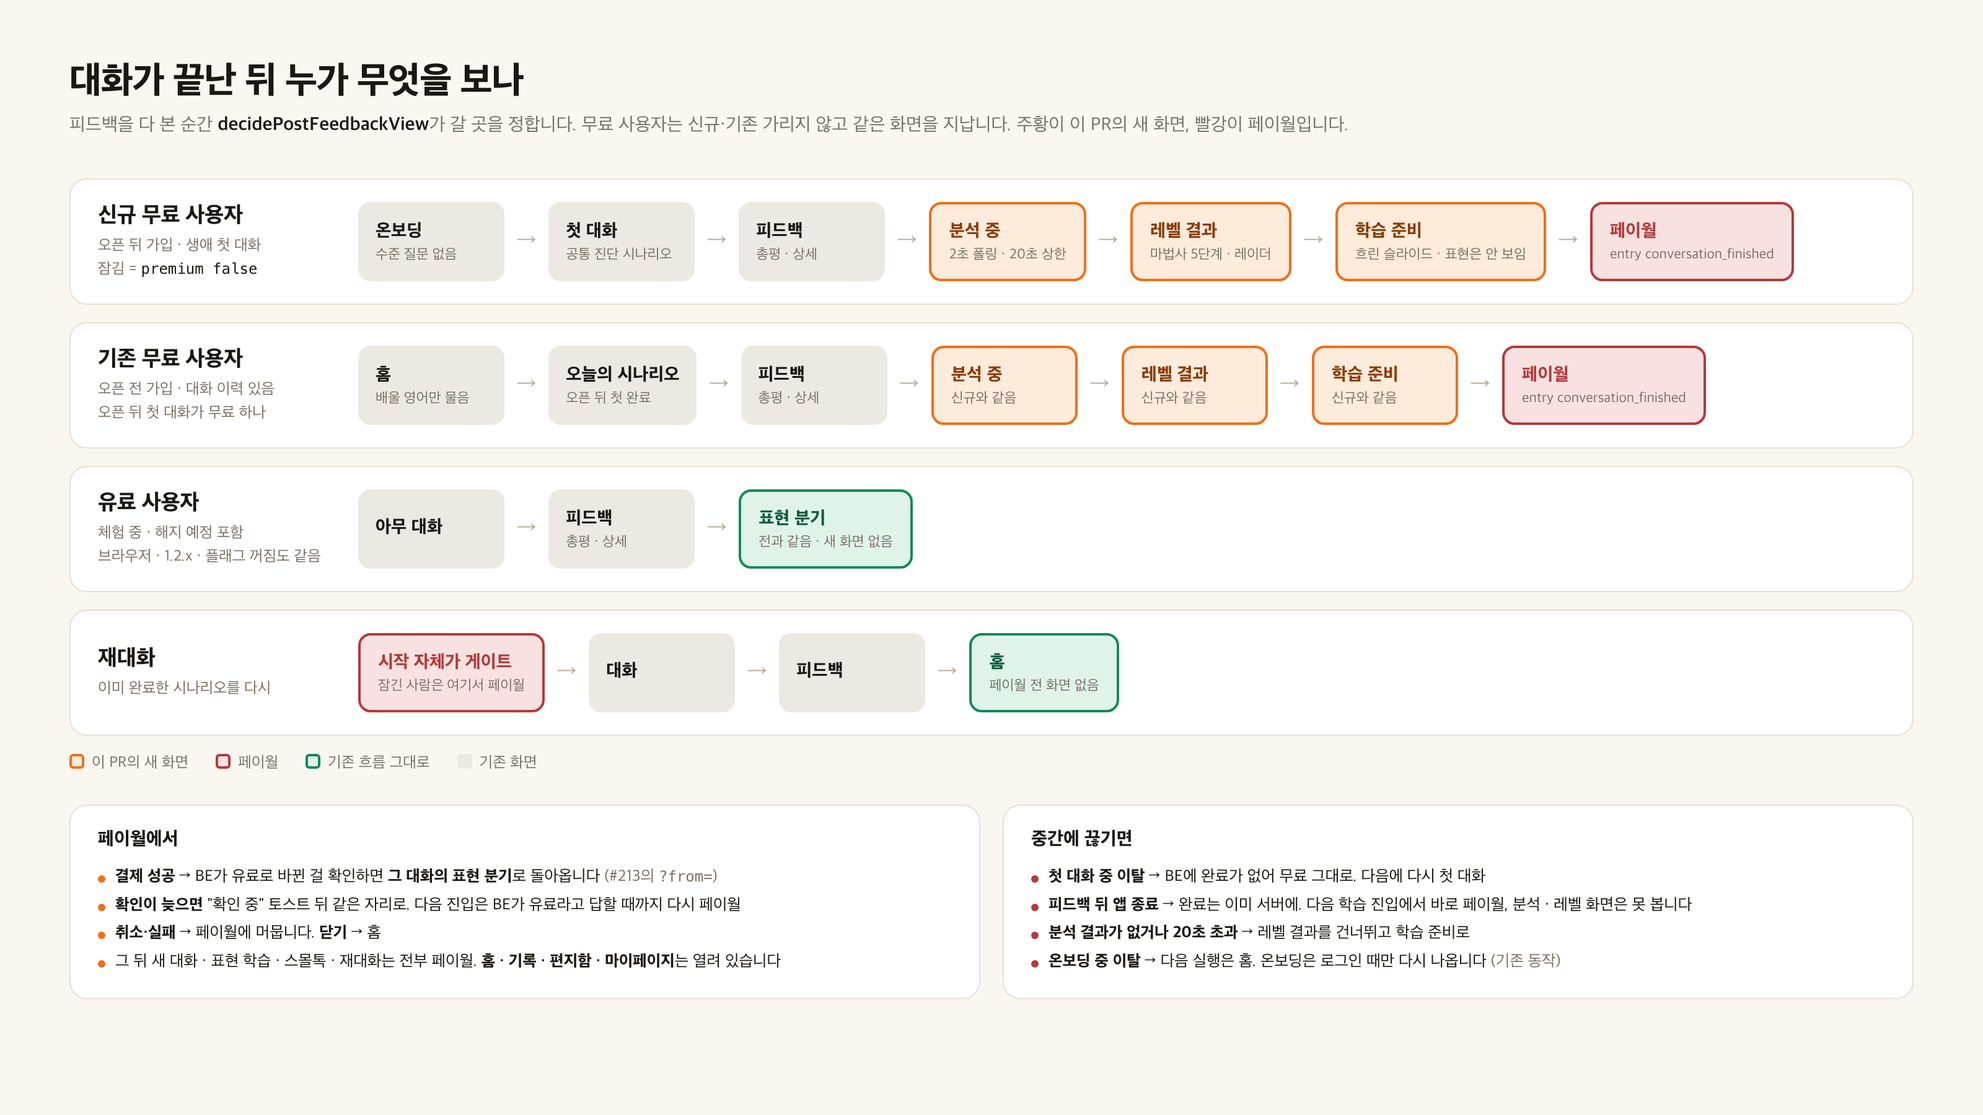
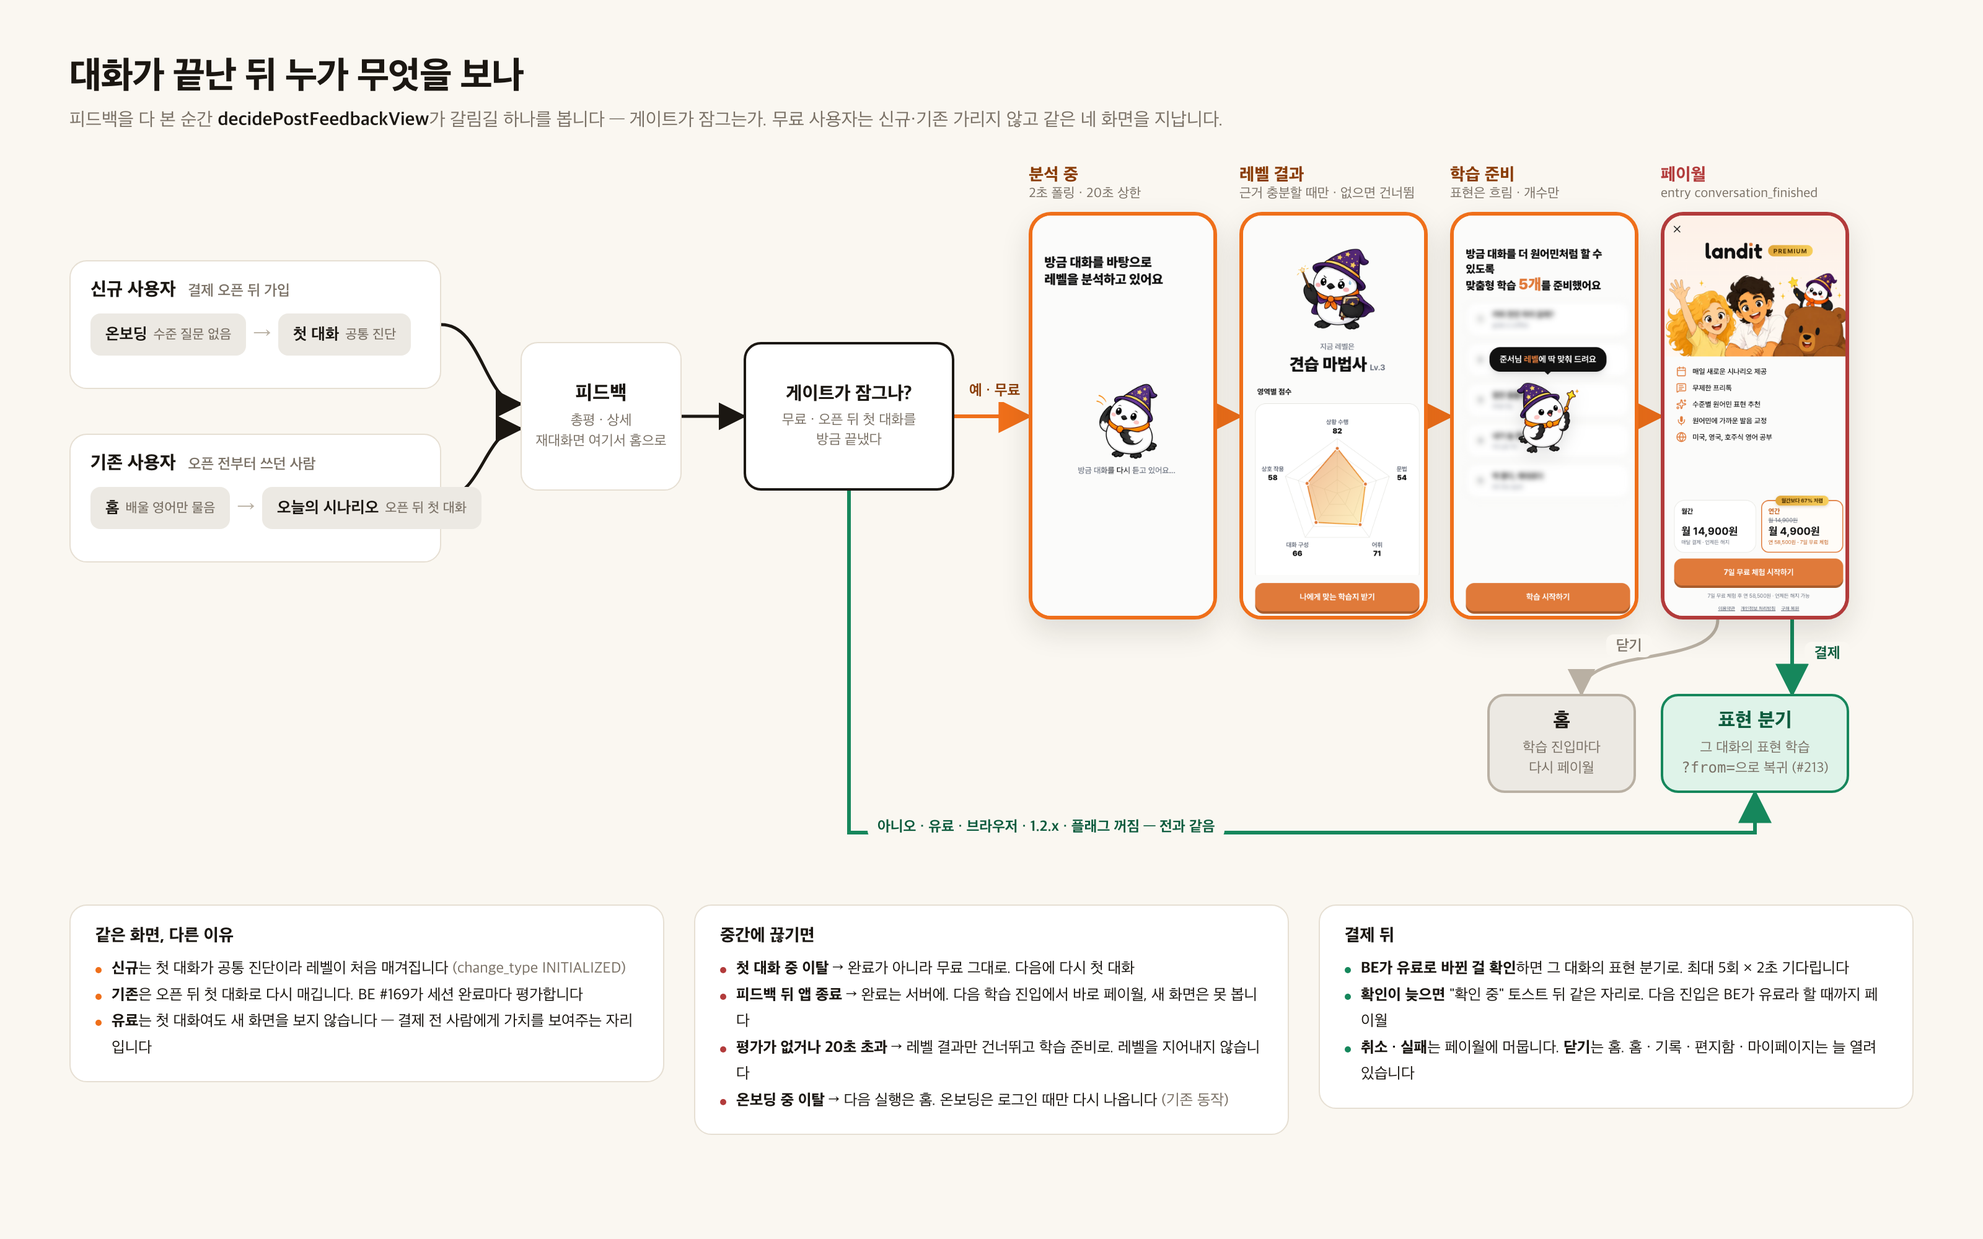
lan448: 흐름도 v2(폰 캡처)와 화면 상태 13장

diff --git a/lan448/post-conversation-flow.html b/lan448/post-conversation-flow.html
@@ -13,136 +13,164 @@
   * { box-sizing: border-box; }
   html, body { margin: 0; background: var(--bg); }
   body { font-family: -apple-system, "Apple SD Gothic Neo", "Pretendard", "Noto Sans KR", system-ui, sans-serif; color: var(--ink); -webkit-font-smoothing: antialiased; }
-  .canvas { width: 1600px; height: 900px; padding: 48px 56px; position: relative; }
+  .canvas { position: relative; width: 1600px; height: 1000px; overflow: hidden; }
+  .abs { position: absolute; }
+  code { font-family: ui-monospace, "SF Mono", Menlo, monospace; font-size: 12px; }
   h1 { margin: 0; font-size: 30px; font-weight: 800; letter-spacing: -0.02em; }
   .sub { margin-top: 8px; font-size: 15px; color: var(--muted); }
   .sub b { color: var(--ink); font-weight: 700; }
-  code { font-family: ui-monospace, "SF Mono", Menlo, monospace; font-size: 12px; }
 
-  .lanes { margin-top: 34px; display: flex; flex-direction: column; gap: 14px; }
-  .lane { display: grid; grid-template-columns: 210px 1fr; align-items: center; border-radius: 14px; padding: 18px 22px; background: #fff; border: 1px solid var(--rule); }
-  .who .name { font-size: 18px; font-weight: 800; letter-spacing: -0.01em; }
-  .who .cond { margin-top: 4px; font-size: 12.5px; line-height: 1.5; color: var(--muted); }
-  .who .cond code { color: var(--ink); }
+  /* 입구 카드 */
+  .entry { width: 300px; height: 104px; padding: 14px 16px; border-radius: 14px; background: #fff; border: 1px solid var(--rule); }
+  .entry .who { font-size: 15px; font-weight: 800; }
+  .entry .who span { font-weight: 600; color: var(--muted); font-size: 12px; margin-left: 6px; }
+  .entry .steps { margin-top: 10px; display: flex; align-items: center; gap: 6px; }
+  .entry .st { height: 34px; padding: 0 12px; border-radius: 8px; background: var(--gray-soft); display: flex; align-items: center; font-size: 13px; font-weight: 700; white-space: nowrap; }
+  .entry .st small { font-weight: 500; color: var(--muted); margin-left: 5px; font-size: 11px; }
+  .entry .ar { color: var(--faint); font-weight: 700; }
 
-  .flow { display: flex; align-items: center; gap: 8px; flex-wrap: nowrap; }
-  .chip { display: flex; flex-direction: column; justify-content: center; min-width: 118px; height: 64px; padding: 0 14px; border-radius: 10px; background: var(--gray-soft); }
-  .chip .t { font-size: 14.5px; font-weight: 800; white-space: nowrap; }
-  .chip .d { margin-top: 3px; font-size: 11.5px; color: var(--muted); white-space: nowrap; }
-  .chip.new { background: var(--accent-soft); border: 2px solid var(--accent); }
-  .chip.new .t { color: var(--accent-ink); }
-  .chip.pay { background: var(--lock-soft); border: 2px solid var(--lock); }
-  .chip.pay .t { color: var(--lock); }
-  .chip.ok { background: var(--truth-soft); border: 2px solid var(--truth); }
-  .chip.ok .t { color: var(--truth-ink); }
-  .arrow { color: var(--faint); font-size: 18px; font-weight: 700; padding: 0 2px; }
-  .arrow.lbl { position: relative; }
-  .arrow.lbl span { position: absolute; left: 50%; top: -22px; transform: translateX(-50%); font-size: 11px; color: var(--muted); white-space: nowrap; }
+  /* 노드 */
+  .node { display: flex; flex-direction: column; align-items: center; justify-content: center; text-align: center; border-radius: 14px; background: #fff; border: 1px solid var(--rule); }
+  .node .t { font-size: 16px; font-weight: 800; }
+  .node .d { margin-top: 4px; font-size: 11.5px; color: var(--muted); line-height: 1.4; }
+  .node.q { background: #fff; border: 2px solid var(--ink); }
+  .node.q .t { font-size: 15px; }
+  .node.ok { background: var(--truth-soft); border: 2px solid var(--truth); } .node.ok .t { color: var(--truth-ink); }
+  .node.home { background: var(--gray-soft); border: 2px solid var(--faint); }
 
-  .legend { margin-top: 14px; display: flex; gap: 22px; font-size: 12.5px; color: var(--muted); }
-  .legend i { display: inline-block; width: 12px; height: 12px; border-radius: 3px; vertical-align: -1px; margin-right: 6px; }
+  /* 폰 */
+  .phone { width: 152px; }
+  .phone .cap { height: 40px; display: flex; flex-direction: column; justify-content: flex-end; padding-bottom: 8px; }
+  .phone .cap .t { font-size: 14px; font-weight: 800; color: var(--accent-ink); white-space: nowrap; }
+  .phone .cap .d { font-size: 11px; color: var(--muted); white-space: nowrap; }
+  .phone .scr { width: 152px; height: 329px; border-radius: 18px; overflow: hidden; border: 3px solid var(--accent); background: #fff; box-shadow: 0 10px 24px rgba(27,23,18,.12); }
+  .phone .scr img { display: block; width: 152px; height: 329px; object-fit: cover; object-position: top; }
+  .phone.pay .cap .t { color: var(--lock); }
+  .phone.pay .scr { border-color: var(--lock); }
 
-  .bottom { margin-top: 26px; display: grid; grid-template-columns: 1fr 1fr; gap: 18px; }
-  .panel { border-radius: 14px; padding: 18px 22px; background: #fff; border: 1px solid var(--rule); }
-  .panel h2 { margin: 0 0 10px; font-size: 15px; font-weight: 800; }
-  .panel ul { margin: 0; padding-left: 0; list-style: none; font-size: 13px; line-height: 1.75; color: var(--ink); }
-  .panel li { padding-left: 14px; position: relative; }
-  .panel li::before { content: ""; position: absolute; left: 0; top: 10px; width: 6px; height: 6px; border-radius: 50%; background: var(--accent); }
-  .panel li b { font-weight: 800; }
-  .panel li .m { color: var(--muted); }
-  .panel.lock li::before { background: var(--lock); }
+  /* 선 라벨 */
+  .lbl { font-size: 12px; font-weight: 700; white-space: nowrap; padding: 2px 8px; border-radius: 6px; background: var(--bg); }
+  .lbl.free { color: var(--accent-ink); }
+  .lbl.open { color: var(--truth-ink); }
+  .lbl.dim { color: var(--muted); font-weight: 600; }
+
+  /* 하단 노트 */
+  .note { width: 480px; padding: 16px 20px; border-radius: 14px; background: #fff; border: 1px solid var(--rule); }
+  .note h2 { margin: 0 0 8px; font-size: 14px; font-weight: 800; }
+  .note ul { margin: 0; padding: 0; list-style: none; font-size: 12.5px; line-height: 1.7; }
+  .note li { padding-left: 13px; position: relative; }
+  .note li::before { content: ""; position: absolute; left: 0; top: 9px; width: 5px; height: 5px; border-radius: 50%; background: var(--accent); }
+  .note li b { font-weight: 800; }
+  .note .m { color: var(--muted); }
+  .note.lock li::before { background: var(--lock); }
+  .note.ok li::before { background: var(--truth); }
 </style>
 </head>
 <body>
 <div class="canvas">
-  <h1>대화가 끝난 뒤 누가 무엇을 보나</h1>
-  <div class="sub">피드백을 다 본 순간 <b>decidePostFeedbackView</b>가 갈 곳을 정합니다. 무료 사용자는 신규·기존 가리지 않고 같은 화면을 지납니다. 주황이 이 PR의 새 화면, 빨강이 페이월입니다.</div>
-
-  <div class="lanes">
-    <div class="lane">
-      <div class="who">
-        <div class="name">신규 무료 사용자</div>
-        <div class="cond">오픈 뒤 가입 · 생애 첫 대화<br/>잠김 = <code>premium false</code></div>
-      </div>
-      <div class="flow">
-        <div class="chip"><div class="t">온보딩</div><div class="d">수준 질문 없음</div></div><div class="arrow">→</div>
-        <div class="chip"><div class="t">첫 대화</div><div class="d">공통 진단 시나리오</div></div><div class="arrow">→</div>
-        <div class="chip"><div class="t">피드백</div><div class="d">총평 · 상세</div></div><div class="arrow">→</div>
-        <div class="chip new"><div class="t">분석 중</div><div class="d">2초 폴링 · 20초 상한</div></div><div class="arrow">→</div>
-        <div class="chip new"><div class="t">레벨 결과</div><div class="d">마법사 5단계 · 레이더</div></div><div class="arrow">→</div>
-        <div class="chip new"><div class="t">학습 준비</div><div class="d">흐린 슬라이드 · 표현은 안 보임</div></div><div class="arrow">→</div>
-        <div class="chip pay"><div class="t">페이월</div><div class="d">entry conversation_finished</div></div>
-      </div>
-    </div>
-
-    <div class="lane">
-      <div class="who">
-        <div class="name">기존 무료 사용자</div>
-        <div class="cond">오픈 전 가입 · 대화 이력 있음<br/>오픈 뒤 첫 대화가 무료 하나</div>
-      </div>
-      <div class="flow">
-        <div class="chip"><div class="t">홈</div><div class="d">배울 영어만 물음</div></div><div class="arrow">→</div>
-        <div class="chip"><div class="t">오늘의 시나리오</div><div class="d">오픈 뒤 첫 완료</div></div><div class="arrow">→</div>
-        <div class="chip"><div class="t">피드백</div><div class="d">총평 · 상세</div></div><div class="arrow">→</div>
-        <div class="chip new"><div class="t">분석 중</div><div class="d">신규와 같음</div></div><div class="arrow">→</div>
-        <div class="chip new"><div class="t">레벨 결과</div><div class="d">신규와 같음</div></div><div class="arrow">→</div>
-        <div class="chip new"><div class="t">학습 준비</div><div class="d">신규와 같음</div></div><div class="arrow">→</div>
-        <div class="chip pay"><div class="t">페이월</div><div class="d">entry conversation_finished</div></div>
-      </div>
-    </div>
-
-    <div class="lane">
-      <div class="who">
-        <div class="name">유료 사용자</div>
-        <div class="cond">체험 중 · 해지 예정 포함<br/>브라우저 · 1.2.x · 플래그 꺼짐도 같음</div>
-      </div>
-      <div class="flow">
-        <div class="chip"><div class="t">아무 대화</div><div class="d"></div></div><div class="arrow">→</div>
-        <div class="chip"><div class="t">피드백</div><div class="d">총평 · 상세</div></div><div class="arrow">→</div>
-        <div class="chip ok"><div class="t">표현 분기</div><div class="d">전과 같음 · 새 화면 없음</div></div>
-      </div>
-    </div>
-
-    <div class="lane">
-      <div class="who">
-        <div class="name">재대화</div>
-        <div class="cond">이미 완료한 시나리오를 다시</div>
-      </div>
-      <div class="flow">
-        <div class="chip pay"><div class="t">시작 자체가 게이트</div><div class="d">잠긴 사람은 여기서 페이월</div></div><div class="arrow">→</div>
-        <div class="chip"><div class="t">대화</div><div class="d"></div></div><div class="arrow">→</div>
-        <div class="chip"><div class="t">피드백</div><div class="d"></div></div><div class="arrow">→</div>
-        <div class="chip ok"><div class="t">홈</div><div class="d">페이월 전 화면 없음</div></div>
-      </div>
-    </div>
+  <div class="abs" style="left:56px; top:44px;">
+    <h1>대화가 끝난 뒤 누가 무엇을 보나</h1>
+    <div class="sub">피드백을 다 본 순간 <b>decidePostFeedbackView</b>가 갈림길 하나를 봅니다 — 게이트가 잠그는가. 무료 사용자는 신규·기존 가리지 않고 같은 네 화면을 지납니다.</div>
   </div>
 
-  <div class="legend">
-    <span><i style="background:var(--accent-soft);border:2px solid var(--accent)"></i>이 PR의 새 화면</span>
-    <span><i style="background:var(--lock-soft);border:2px solid var(--lock)"></i>페이월</span>
-    <span><i style="background:var(--truth-soft);border:2px solid var(--truth)"></i>기존 흐름 그대로</span>
-    <span><i style="background:var(--gray-soft)"></i>기존 화면</span>
+  <!-- 선 -->
+  <svg class="abs" style="left:0; top:0;" width="1600" height="1000" fill="none">
+    <defs>
+      <marker id="a-ink" viewBox="0 0 10 10" refX="9" refY="5" markerWidth="9" markerHeight="9" orient="auto-start-reverse"><path d="M0,0 L10,5 L0,10 z" fill="#1b1712"/></marker>
+      <marker id="a-acc" viewBox="0 0 10 10" refX="9" refY="5" markerWidth="9" markerHeight="9" orient="auto-start-reverse"><path d="M0,0 L10,5 L0,10 z" fill="#ef6f1a"/></marker>
+      <marker id="a-ok" viewBox="0 0 10 10" refX="9" refY="5" markerWidth="9" markerHeight="9" orient="auto-start-reverse"><path d="M0,0 L10,5 L0,10 z" fill="#16875c"/></marker>
+      <marker id="a-dim" viewBox="0 0 10 10" refX="9" refY="5" markerWidth="9" markerHeight="9" orient="auto-start-reverse"><path d="M0,0 L10,5 L0,10 z" fill="#b9b0a3"/></marker>
+    </defs>
+    <!-- 입구 → 피드백 -->
+    <path d="M356,262 C390,262 390,326 420,326" stroke="#1b1712" stroke-width="2.5" marker-end="url(#a-ink)"/>
+    <path d="M356,402 C390,402 390,346 420,346" stroke="#1b1712" stroke-width="2.5" marker-end="url(#a-ink)"/>
+    <!-- 피드백 → 갈림길 -->
+    <path d="M550,336 H600" stroke="#1b1712" stroke-width="2.5" marker-end="url(#a-ink)"/>
+    <!-- 예 → 폰들 -->
+    <path d="M770,336 H830" stroke="#ef6f1a" stroke-width="3" marker-end="url(#a-acc)"/>
+    <path d="M982,336 H1000" stroke="#ef6f1a" stroke-width="3" marker-end="url(#a-acc)"/>
+    <path d="M1152,336 H1170" stroke="#ef6f1a" stroke-width="3" marker-end="url(#a-acc)"/>
+    <path d="M1322,336 H1340" stroke="#ef6f1a" stroke-width="3" marker-end="url(#a-acc)"/>
+    <!-- 페이월 → 결제 / 닫기 -->
+    <path d="M1446,500 V560" stroke="#16875c" stroke-width="3" marker-end="url(#a-ok)"/>
+    <path d="M1386,500 C1386,540 1276,520 1276,560" stroke="#b9b0a3" stroke-width="2.5" marker-end="url(#a-dim)"/>
+    <!-- 아니오 → 표현 분기 -->
+    <path d="M685,396 V672 H1416 V640" stroke="#16875c" stroke-width="3" marker-end="url(#a-ok)"/>
+  </svg>
+
+  <!-- 입구 -->
+  <div class="abs entry" style="left:56px; top:210px;">
+    <div class="who">신규 사용자 <span>결제 오픈 뒤 가입</span></div>
+    <div class="steps"><div class="st">온보딩<small>수준 질문 없음</small></div><span class="ar">→</span><div class="st">첫 대화<small>공통 진단</small></div></div>
+  </div>
+  <div class="abs entry" style="left:56px; top:350px;">
+    <div class="who">기존 사용자 <span>오픈 전부터 쓰던 사람</span></div>
+    <div class="steps"><div class="st">홈<small>배울 영어만 물음</small></div><span class="ar">→</span><div class="st">오늘의 시나리오<small>오픈 뒤 첫 대화</small></div></div>
   </div>
 
-  <div class="bottom">
-    <div class="panel">
-      <h2>페이월에서</h2>
-      <ul>
-        <li><b>결제 성공</b> → BE가 유료로 바뀐 걸 확인하면 <b>그 대화의 표현 분기</b>로 돌아옵니다 <span class="m">(#213의 <code>?from=</code>)</span></li>
-        <li><b>확인이 늦으면</b> "확인 중" 토스트 뒤 같은 자리로. 다음 진입은 BE가 유료라고 답할 때까지 다시 페이월</li>
-        <li><b>취소·실패</b> → 페이월에 머뭅니다. <b>닫기</b> → 홈</li>
-        <li>그 뒤 새 대화 · 표현 학습 · 스몰톡 · 재대화는 전부 페이월. <b>홈 · 기록 · 편지함 · 마이페이지</b>는 열려 있습니다</li>
-      </ul>
-    </div>
-    <div class="panel lock">
-      <h2>중간에 끊기면</h2>
-      <ul>
-        <li><b>첫 대화 중 이탈</b> → BE에 완료가 없어 무료 그대로. 다음에 다시 첫 대화</li>
-        <li><b>피드백 뒤 앱 종료</b> → 완료는 이미 서버에. 다음 학습 진입에서 바로 페이월, 분석 · 레벨 화면은 못 봅니다</li>
-        <li><b>분석 결과가 없거나 20초 초과</b> → 레벨 결과를 건너뛰고 학습 준비로</li>
-        <li><b>온보딩 중 이탈</b> → 다음 실행은 홈. 온보딩은 로그인 때만 다시 나옵니다 <span class="m">(기존 동작)</span></li>
-      </ul>
-    </div>
+  <!-- 피드백 · 갈림길 -->
+  <div class="abs node" style="left:420px; top:276px; width:130px; height:120px;">
+    <div class="t">피드백</div><div class="d">총평 · 상세<br/>재대화면 여기서 홈으로</div>
+  </div>
+  <div class="abs node q" style="left:600px; top:276px; width:170px; height:120px;">
+    <div class="t">게이트가 잠그나?</div><div class="d">무료 · 오픈 뒤 첫 대화를<br/>방금 끝냈다</div>
+  </div>
+  <div class="abs lbl free" style="left:774px; top:306px;">예 · 무료</div>
+  <div class="abs lbl open" style="left:700px; top:658px;">아니오 · 유료 · 브라우저 · 1.2.x · 플래그 꺼짐 — 전과 같음</div>
+
+  <!-- 폰 4장 -->
+  <div class="abs phone" style="left:830px; top:131px;">
+    <div class="cap"><div class="t">분석 중</div><div class="d">2초 폴링 · 20초 상한</div></div>
+    <div class="scr"><img src="01-analyzing.png" alt="분석 중" /></div>
+  </div>
+  <div class="abs phone" style="left:1000px; top:131px;">
+    <div class="cap"><div class="t">레벨 결과</div><div class="d">근거 충분할 때만 · 없으면 건너뜀</div></div>
+    <div class="scr"><img src="02-level-lv3.png" alt="레벨 결과" /></div>
+  </div>
+  <div class="abs phone" style="left:1170px; top:131px;">
+    <div class="cap"><div class="t">학습 준비</div><div class="d">표현은 흐림 · 개수만</div></div>
+    <div class="scr"><img src="05-prepared.png" alt="학습 준비" /></div>
+  </div>
+  <div class="abs phone pay" style="left:1340px; top:131px;">
+    <div class="cap"><div class="t">페이월</div><div class="d">entry conversation_finished</div></div>
+    <div class="scr"><img src="paywall-yearly.png" alt="페이월" /></div>
+  </div>
+
+  <!-- 페이월 뒤 -->
+  <div class="abs lbl open" style="left:1456px; top:518px;">결제</div>
+  <div class="abs lbl dim" style="left:1296px; top:512px;">닫기</div>
+  <div class="abs node ok" style="left:1340px; top:560px; width:152px; height:80px;">
+    <div class="t">표현 분기</div><div class="d">그 대화의 표현 학습<br/><code>?from=</code>으로 복귀 (#213)</div>
+  </div>
+  <div class="abs node home" style="left:1200px; top:560px; width:120px; height:80px;">
+    <div class="t">홈</div><div class="d">학습 진입마다<br/>다시 페이월</div>
+  </div>
+
+  <!-- 하단 노트 -->
+  <div class="abs note" style="left:56px; top:730px;">
+    <h2>같은 화면, 다른 이유</h2>
+    <ul>
+      <li><b>신규</b>는 첫 대화가 공통 진단이라 레벨이 처음 매겨집니다 <span class="m">(change_type INITIALIZED)</span></li>
+      <li><b>기존</b>은 오픈 뒤 첫 대화로 다시 매깁니다. BE #169가 세션 완료마다 평가합니다</li>
+      <li><b>유료</b>는 첫 대화여도 새 화면을 보지 않습니다 — 결제 전 사람에게 가치를 보여주는 자리입니다</li>
+    </ul>
+  </div>
+  <div class="abs note lock" style="left:560px; top:730px;">
+    <h2>중간에 끊기면</h2>
+    <ul>
+      <li><b>첫 대화 중 이탈</b> → 완료가 아니라 무료 그대로. 다음에 다시 첫 대화</li>
+      <li><b>피드백 뒤 앱 종료</b> → 완료는 서버에. 다음 학습 진입에서 바로 페이월, 새 화면은 못 봅니다</li>
+      <li><b>평가가 없거나 20초 초과</b> → 레벨 결과만 건너뛰고 학습 준비로. 레벨을 지어내지 않습니다</li>
+      <li><b>온보딩 중 이탈</b> → 다음 실행은 홈. 온보딩은 로그인 때만 다시 나옵니다 <span class="m">(기존 동작)</span></li>
+    </ul>
+  </div>
+  <div class="abs note ok" style="left:1064px; top:730px;">
+    <h2>결제 뒤</h2>
+    <ul>
+      <li><b>BE가 유료로 바뀐 걸 확인</b>하면 그 대화의 표현 분기로. 최대 5회 × 2초 기다립니다</li>
+      <li><b>확인이 늦으면</b> "확인 중" 토스트 뒤 같은 자리로. 다음 진입은 BE가 유료라 할 때까지 페이월</li>
+      <li><b>취소 · 실패</b>는 페이월에 머뭅니다. <b>닫기</b>는 홈. 홈 · 기록 · 편지함 · 마이페이지는 늘 열려 있습니다</li>
+    </ul>
   </div>
 </div>
 </body>
